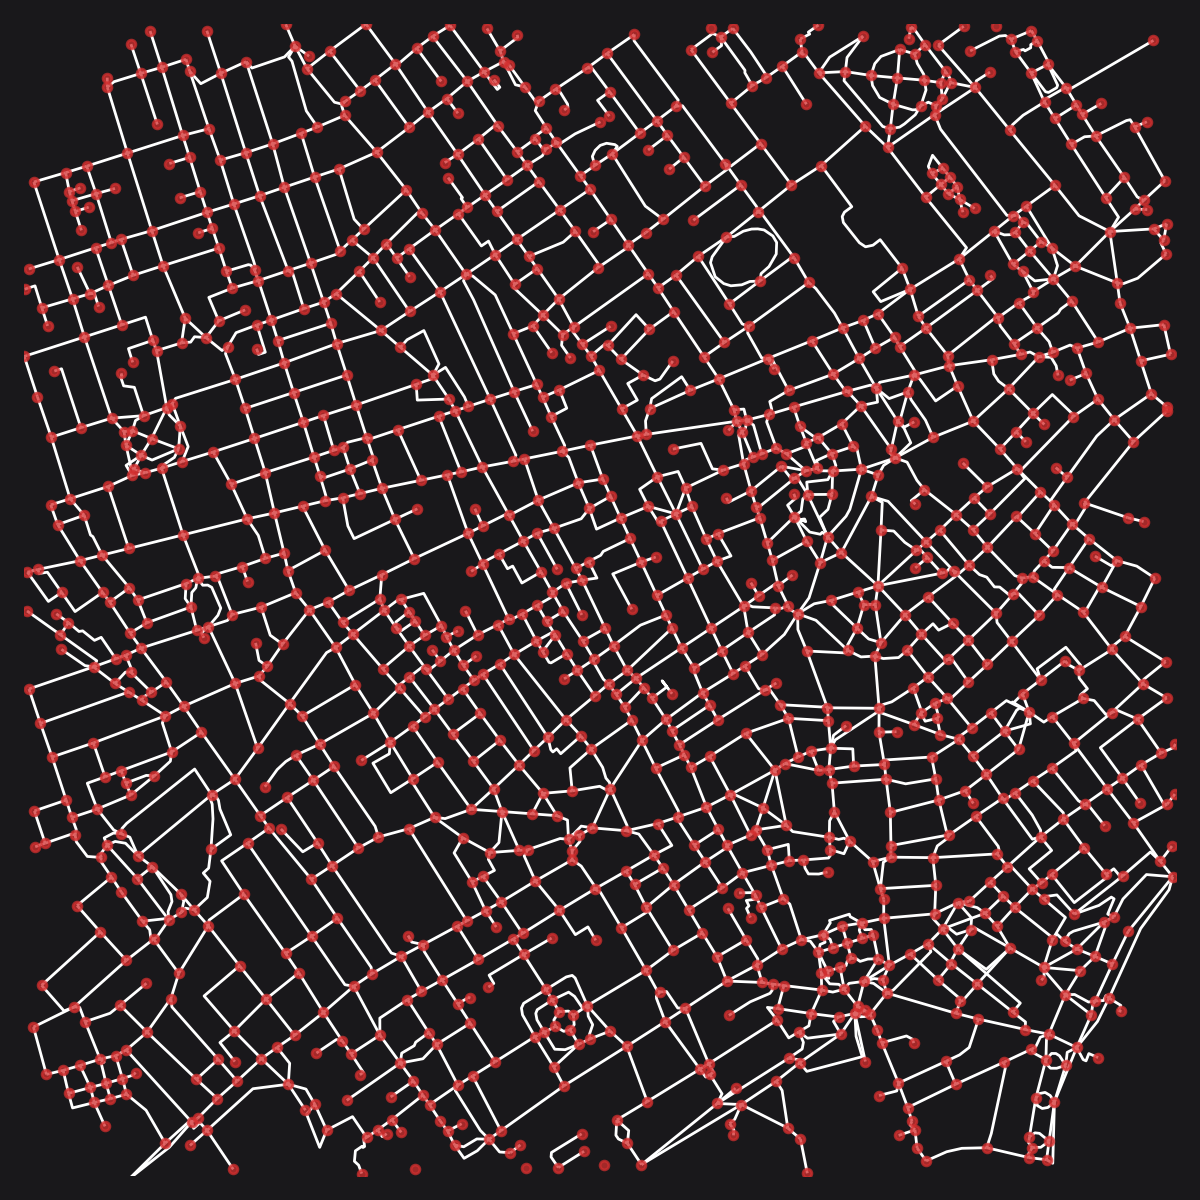
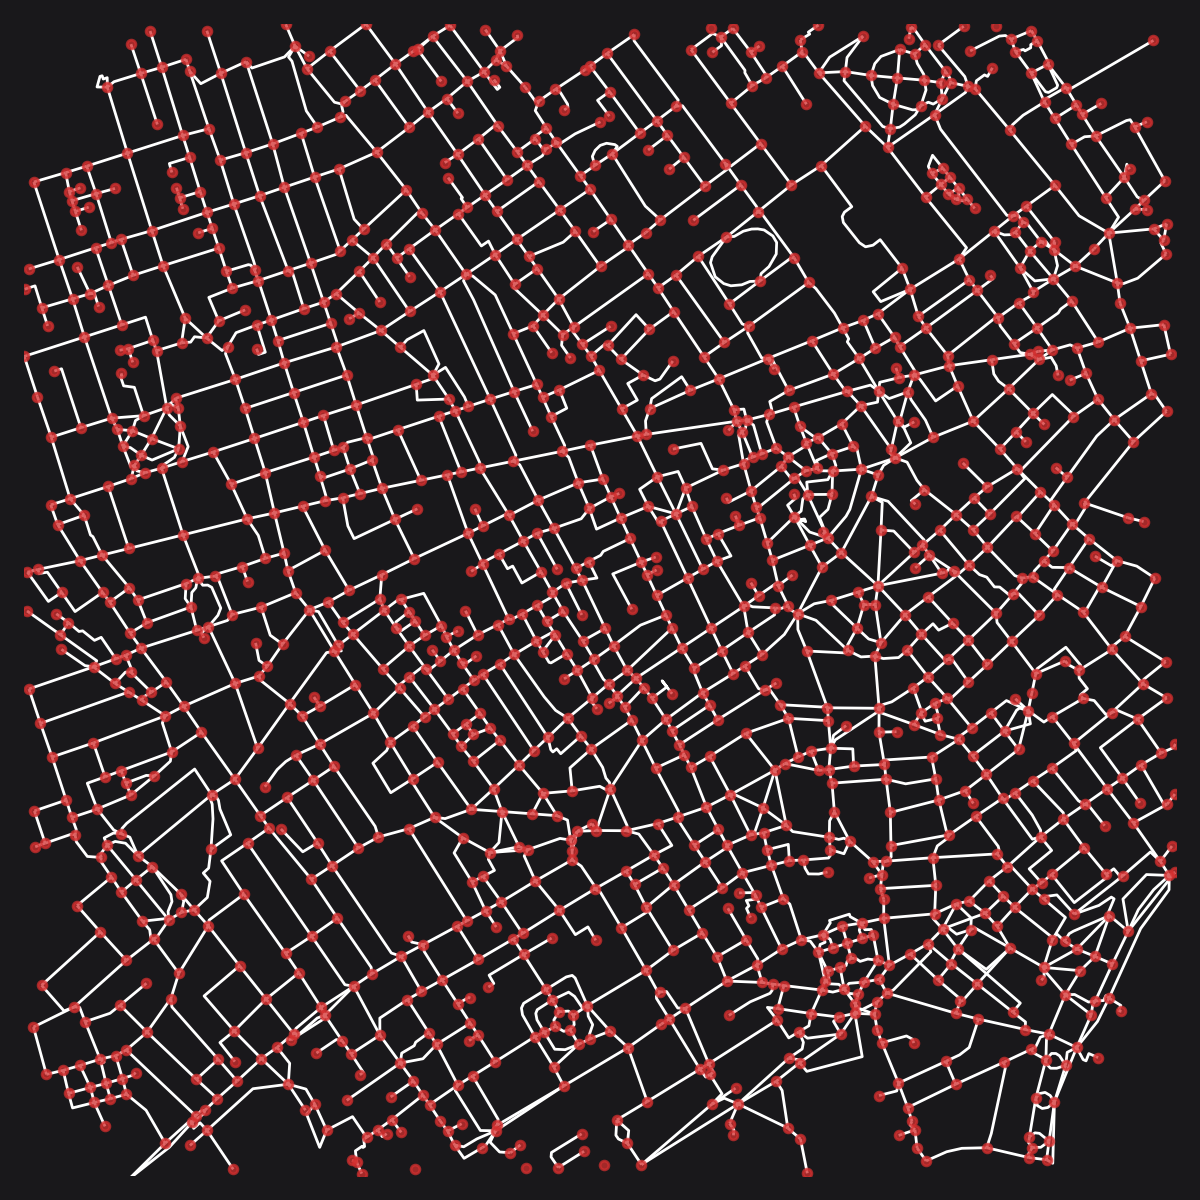
tweaks to graph cleaning

diff --git a/pysrc/cityseer/tools/graphs.py b/pysrc/cityseer/tools/graphs.py
@@ -397,7 +397,7 @@ class _EdgeInfo:
         nx_multigraph[start_node_key][end_node_key][edge_idx]["highways"] = self.highways
 
 
-def nx_simple_geoms(nx_multigraph: MultiGraph, simplify_dist: int = 2) -> MultiGraph:
+def nx_simple_geoms(nx_multigraph: MultiGraph, simplify_dist: int = 5) -> MultiGraph:
     """
     Inferring geometries from node to node.
 
@@ -1077,8 +1077,8 @@ def nx_iron_edges(
 
 def _squash_adjacent(
     nx_multigraph: MultiGraph,
-    node_group: list[NodeKey],
-    centroid_by_straightness: bool = True,
+    node_group: set[NodeKey],
+    centroid_by_straightness: bool,
     centroid_by_min_len_factor: float | None = 0.9,
 ) -> MultiGraph:
     """
@@ -1101,7 +1101,7 @@ def _squash_adjacent(
     node_group = [nd_key for nd_key in node_group if nd_key in nx_multigraph]
     # straightness basis - looks for intersections bridging relatively straight through routes
     centroid_nodes: list[int] = []
-    if centroid_by_straightness:
+    if centroid_by_straightness is True:
         for nd_key in node_group:
             nd_x_y = (nx_multigraph.nodes[nd_key]["x"], nx_multigraph.nodes[nd_key]["y"])
             for nb_nd_key_a in nx.neighbors(nx_multigraph, nd_key):
@@ -1380,12 +1380,12 @@ def nx_consolidate_nodes(
         nd_key: NodeKey,
         x: float,
         y: float,
-        node_group: list[NodeKey],
-        processed_nodes: list[NodeKey],
+        node_group: set[NodeKey],
+        processed_nodes: set[NodeKey],
         recursive: bool = False,
-    ) -> list[NodeKey]:
+    ) -> set[NodeKey]:
         # keep track of which nodes have been processed as part of recursion
-        processed_nodes.append(nd_key)
+        processed_nodes.add(nd_key)
         # get all other nodes within buffer distance - the self-node and previously processed nodes are also returned
         j_hits: list[int] = nodes_tree.query(geometry.Point(x, y).buffer(buffer_dist))
         # review each node within the buffer
@@ -1404,7 +1404,7 @@ def nx_consolidate_nodes(
                 if neighbour_policy == "direct" and j_nd_key not in neighbours:
                     continue
             # otherwise add the node
-            node_group.append(j_nd_key)
+            node_group.add(j_nd_key)
             # if recursive, follow the chain
             if recursive:
                 j_nd_data: NodeData = nx_multigraph.nodes[j_nd_key]
@@ -1430,8 +1430,8 @@ def nx_consolidate_nodes(
             nd_key,  # node nd_key
             nd_data["x"],  # x point for buffer
             nd_data["y"],  # y point for buffer
-            [nd_key],  # node group for consolidation (with starting node)
-            [],  # processed nodes tracked through recursion
+            set([nd_key]),  # node group for consolidation (with starting node)
+            set(),  # processed nodes tracked through recursion
             crawl,
         )  # whether to recursively probe neighbours per distance
         # update removed nodes
@@ -1572,6 +1572,9 @@ def nx_split_opposing_geoms(
         n_geom = geometry.Point(nd_data["x"], nd_data["y"])
         # iter gapped edges
         for start_nd_key, end_nd_key, edge_idx, edge_geom in gapped_edges:
+            # don't proceed with splits for short geoms
+            if edge_geom.length < buffer_dist:
+                continue
             # project a point and split the opposing geom
             # ops.nearest_points returns tuple of nearest from respective input geoms
             # want the nearest point on the line at index 1
@@ -1588,6 +1591,9 @@ def nx_split_opposing_geoms(
             new_edge_geom_a: geometry.LineString
             new_edge_geom_b: geometry.LineString
             new_edge_geom_a, new_edge_geom_b = split_geoms.geoms
+            # don't proceed with split for overly short split segments
+            if new_edge_geom_a.length < buffer_dist or new_edge_geom_b.length < buffer_dist:
+                continue
             # add the new node and edges to _multi_graph (don't modify nx_multigraph because of iter in place)
             new_nd_name, is_dupe = _add_node(
                 _multi_graph, [start_nd_key, nd_key, end_nd_key], x=nearest_point.x, y=nearest_point.y

diff --git a/docs/plots/plots.py b/docs/plots/plots.py
@@ -127,7 +127,7 @@ simple_plot(graph_utm, f"{IMAGES_PATH}/graph_cleaning_1b.{FORMAT}")
 
 graph_utm = graphs.nx_simple_geoms(graph_raw)
 graph_utm = graphs.nx_remove_filler_nodes(graph_utm)
-graph_utm = graphs.nx_remove_dangling_nodes(graph_utm, despine=20, remove_disconnected=True)
+graph_utm = graphs.nx_remove_dangling_nodes(graph_utm, despine=15, remove_disconnected=True)
 simple_plot(graph_utm, f"{IMAGES_PATH}/graph_cleaning_2.{FORMAT}")
 # first pass of consolidation
 graph_utm = graphs.nx_consolidate_nodes(graph_utm, buffer_dist=15, crawl=True)
@@ -136,7 +136,7 @@ simple_plot(graph_utm, f"{IMAGES_PATH}/graph_cleaning_3.{FORMAT}")
 graph_utm = graphs.nx_split_opposing_geoms(graph_utm, buffer_dist=15)
 simple_plot(graph_utm, f"{IMAGES_PATH}/graph_cleaning_4.{FORMAT}")
 # second pass of consolidation
-graph_utm = graphs.nx_consolidate_nodes(graph_utm, buffer_dist=15, crawl=False)
+graph_utm = graphs.nx_consolidate_nodes(graph_utm, buffer_dist=15, crawl=False, neighbour_policy="indirect")
 simple_plot(graph_utm, f"{IMAGES_PATH}/graph_cleaning_5.{FORMAT}")
 # iron edges
 graph_utm = graphs.nx_iron_edges(graph_utm)
@@ -337,7 +337,7 @@ G_raw = io.nx_from_osm_nx(multi_di_graph_raw)
 G = graphs.nx_wgs_to_utm(G_raw)
 G = graphs.nx_simple_geoms(G)
 G = graphs.nx_remove_filler_nodes(G)
-G = graphs.nx_remove_dangling_nodes(G, despine=20, remove_disconnected=True)
+G = graphs.nx_remove_dangling_nodes(G, despine=15, remove_disconnected=True)
 G1 = graphs.nx_consolidate_nodes(G, buffer_dist=15, crawl=True)
 G2 = graphs.nx_split_opposing_geoms(G1, buffer_dist=15)
 G3 = graphs.nx_consolidate_nodes(G2, buffer_dist=15, crawl=False)

diff --git a/tests/tools/test_graphs.py b/tests/tools/test_graphs.py
@@ -480,19 +480,17 @@ def test_nx_consolidate():
         G_split_opps, buffer_dist=25, centroid_by_straightness=False, merge_edges_by_midline=True
     )
     # plot.plot_nx(G_merged_spatial, labels=True, node_size=80, plot_geoms=True)
-
     assert G_merged_spatial.number_of_nodes() == 8
     assert G_merged_spatial.number_of_edges() == 8
-
     node_coords = []
     for n, d in G_merged_spatial.nodes(data=True):
         node_coords.append((d["x"], d["y"]))
     assert node_coords == [
         (620.0, 710.0),
         (660.0, 710.0),
-        (660, 660),
+        (660.0, 660.0),
         (710.0, 800.0),
-        (710.0, 710.0),
+        (706.6666666666666, 713.3333333333334),
         (710.0, 620.0),
         (780.0, 710.0),
         (840.0, 710.0),
@@ -501,7 +499,19 @@ def test_nx_consolidate():
     edge_lens = []
     for s, e, d in G_merged_spatial.edges(data=True):
         edge_lens.append(d["geom"].length)
-    assert edge_lens == [40.0, 50.0, 50.0, 90.0, 90.0, 70.0, 60.0, 147.70329614269008]
+    assert np.allclose(
+        edge_lens,
+        [
+            40.0,
+            50.0,
+            46.78556282539396,
+            86.73074554171788,
+            93.39283817414604,
+            73.40905181848417,
+            60.0,
+            147.70329614269008,
+        ],
+    )
 
 
 def test_nx_decompose(primal_graph):

diff --git a/pysrc/cityseer/tools/io.py b/pysrc/cityseer/tools/io.py
@@ -250,11 +250,11 @@ def osm_graph_from_poly(
     if simplify:
         graph_crs = graphs.nx_simple_geoms(graph_crs)
         graph_crs = graphs.nx_remove_filler_nodes(graph_crs)
-        graph_crs = graphs.nx_remove_dangling_nodes(graph_crs, despine=20, remove_disconnected=remove_disconnected)
+        graph_crs = graphs.nx_remove_dangling_nodes(graph_crs, despine=15, remove_disconnected=remove_disconnected)
         graph_crs = graphs.nx_consolidate_nodes(graph_crs, buffer_dist=15, crawl=True)
         if remove_parallel:
             graph_crs = graphs.nx_split_opposing_geoms(graph_crs, buffer_dist=15)
-            graph_crs = graphs.nx_consolidate_nodes(graph_crs, buffer_dist=15, crawl=False)
+            graph_crs = graphs.nx_consolidate_nodes(graph_crs, buffer_dist=15, crawl=False, neighbour_policy='indirect')
         if iron_edges:
             graph_crs = graphs.nx_iron_edges(graph_crs)
 
